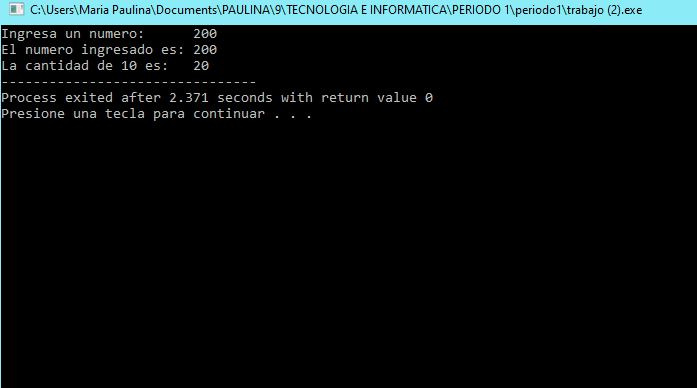
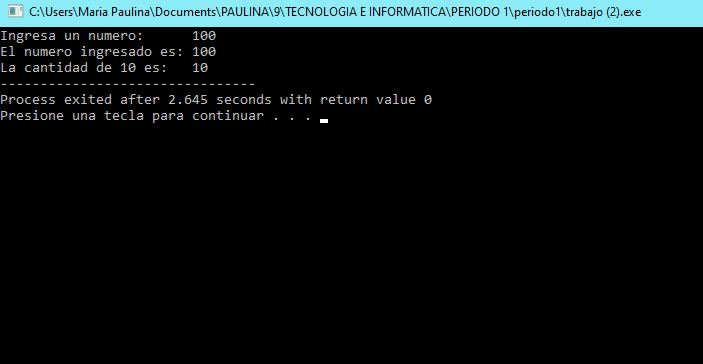
Add files via upload

Changed region(s): [[0.0, 0.0, 1.0, 0.3324]]

diff --git a/trabajo2.html b/trabajo2.html
@@ -32,7 +32,7 @@
 <hr></center>
 
 
-	  <h1><center><p style="color:#B3E5FC ">PLAN DE MEJORAMIENTO</center></h1>
+	  <h1><center><p style="color:#B3E5FC ">TRABAJO 2</center></h1>
 	  	<br>
 <ul>
 <li><h1><a href="#opinion">Mi opinion</a></h1></li><a name="vuelta"></a>
@@ -46,13 +46,26 @@
 
 <br>
 <div class="result">
-<img src="resultado.jpg">
+<img src="resultadoo.jpg">
 </div>
 
-
-<div class="trabajo">
-	<img src="trabajito.jpg">
-</div>
+<br>
+<br>
+<br>
+<br>
+<br>
+<br>
+<br>
+<br>
+<br>
+<br>
+<br>
+<br>
+<img src="trabajodos.jpg">
+<br>
+<br>
+<br>
+<img src="dos.jpg">
 
 <br>
 <br>
@@ -123,9 +136,7 @@
 <br>
 <br>
 	<center><h1 id="opinion"><p style="color:#B3E5FC "> ¿Cual es mi opinon?</center></p></h1>
-	<br><br><br><h1><p style="color:white ">Me parecio un trabajo al principio un poco complicado, sin embargo luego de la explicacion me di cuenta que tenia la idea de como hacerlo pero tenia unos pequeños detalles errados que no permitian la correcta ejecucion, me genero una sensacion bastante chevere ver que  iba por un buen camino  para lograr el proposito.
-<br>
-	me guie de los datos dados en los ejemplos de la clase y ya tengo terminos mucho mas claro de lo que quizas antes pude haberlos tenido
+	<br><br><br><h1><p style="color:white ">Me parecio un trabajo al principio un poco facil, me di cuenta que tenia la idea de como hacerlo sin embargo a la hora de ponerlo en el programa, ejecutar no me presento los resultados esperados, quizas fue una falla en mi logica
 	 	<a href="#vuelta">INICIO</a></h1></li>
  <br>
  <br>

diff --git a/periodod.html b/periodod.html
@@ -41,21 +41,8 @@
 
 	
 <h1><div class="clicu"><button><a href="trabajo1.html"><p  style="color:#F686FF">¡CLIC AQUI!</h1></p></div>
-
-		 <div class="er">
-		 	<button><a href="tarea2.html"><img src="tarea2.jpg"></button>
-		 </div>
-
- 	<h1><div class="clicd"><p  style="color:#F686FF">¡CLIC EN LA IMAGEN!</h1></p></div>
-
-	 <div class="aa">
-		 	<button><a href="tarea3.html"><img src="tarea3.jpg"></button>
-		 </div>
-
- 	<h1><div class="clict"><p  style="color:#F686FF">¡CLIC EN LA IMAGEN!</h1></p></div>
-
-
-
+<h1><br><button><a href="trabajo2.html"><p  style="color:#F686FF">¡CLIC AQUI!</h1></p></div>
+	
 
 </body>
 </html>
